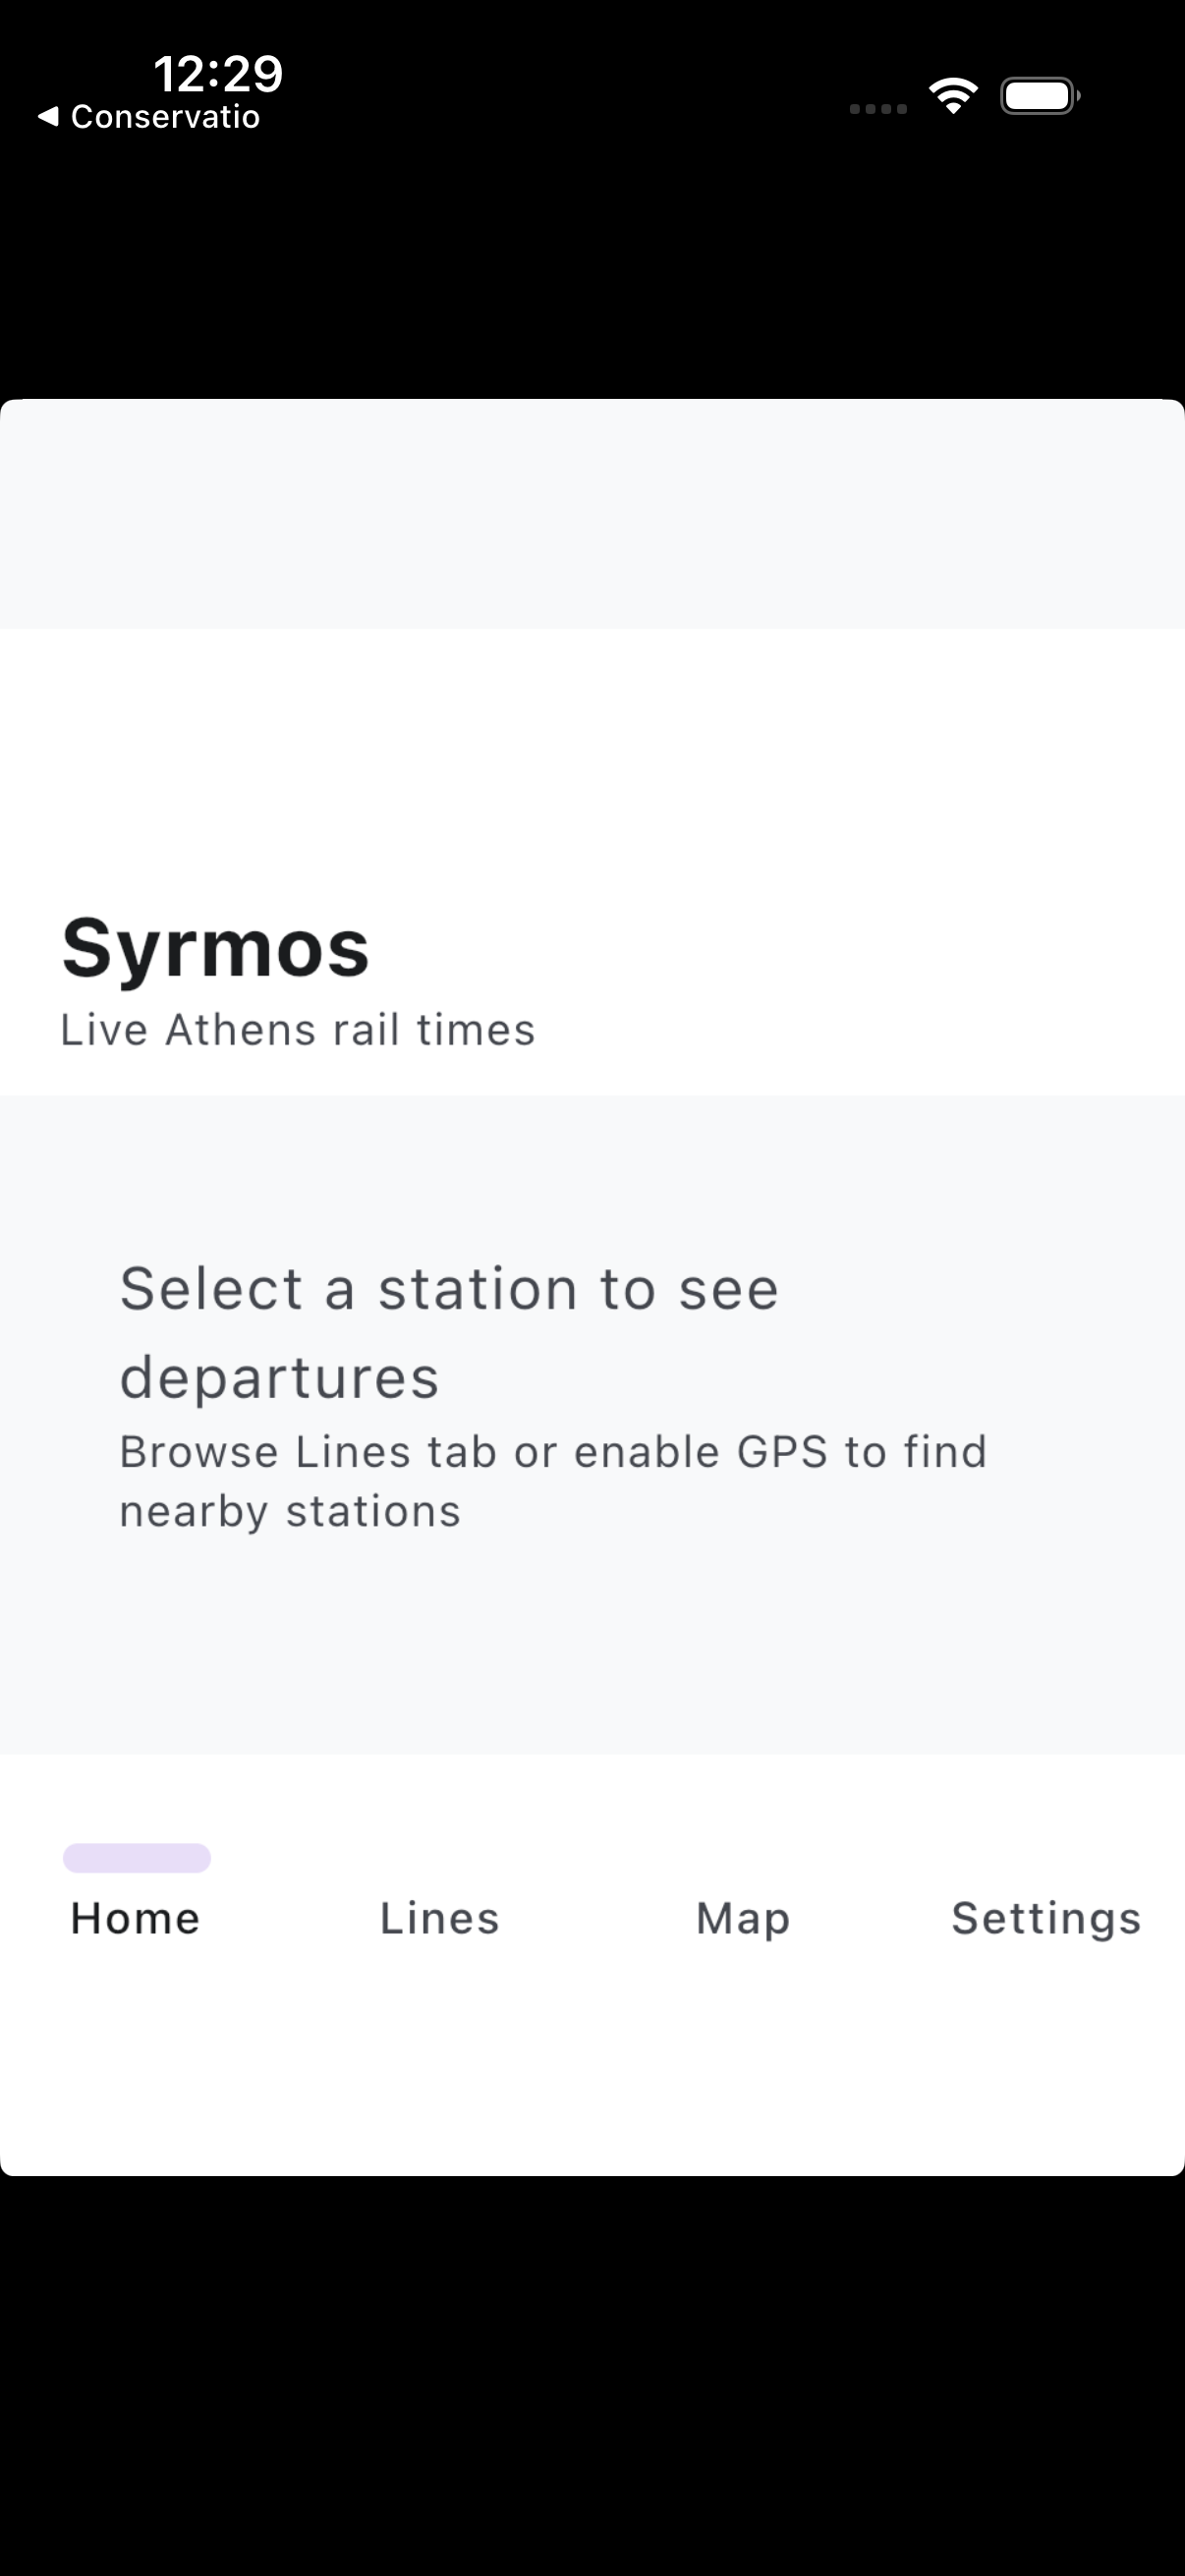
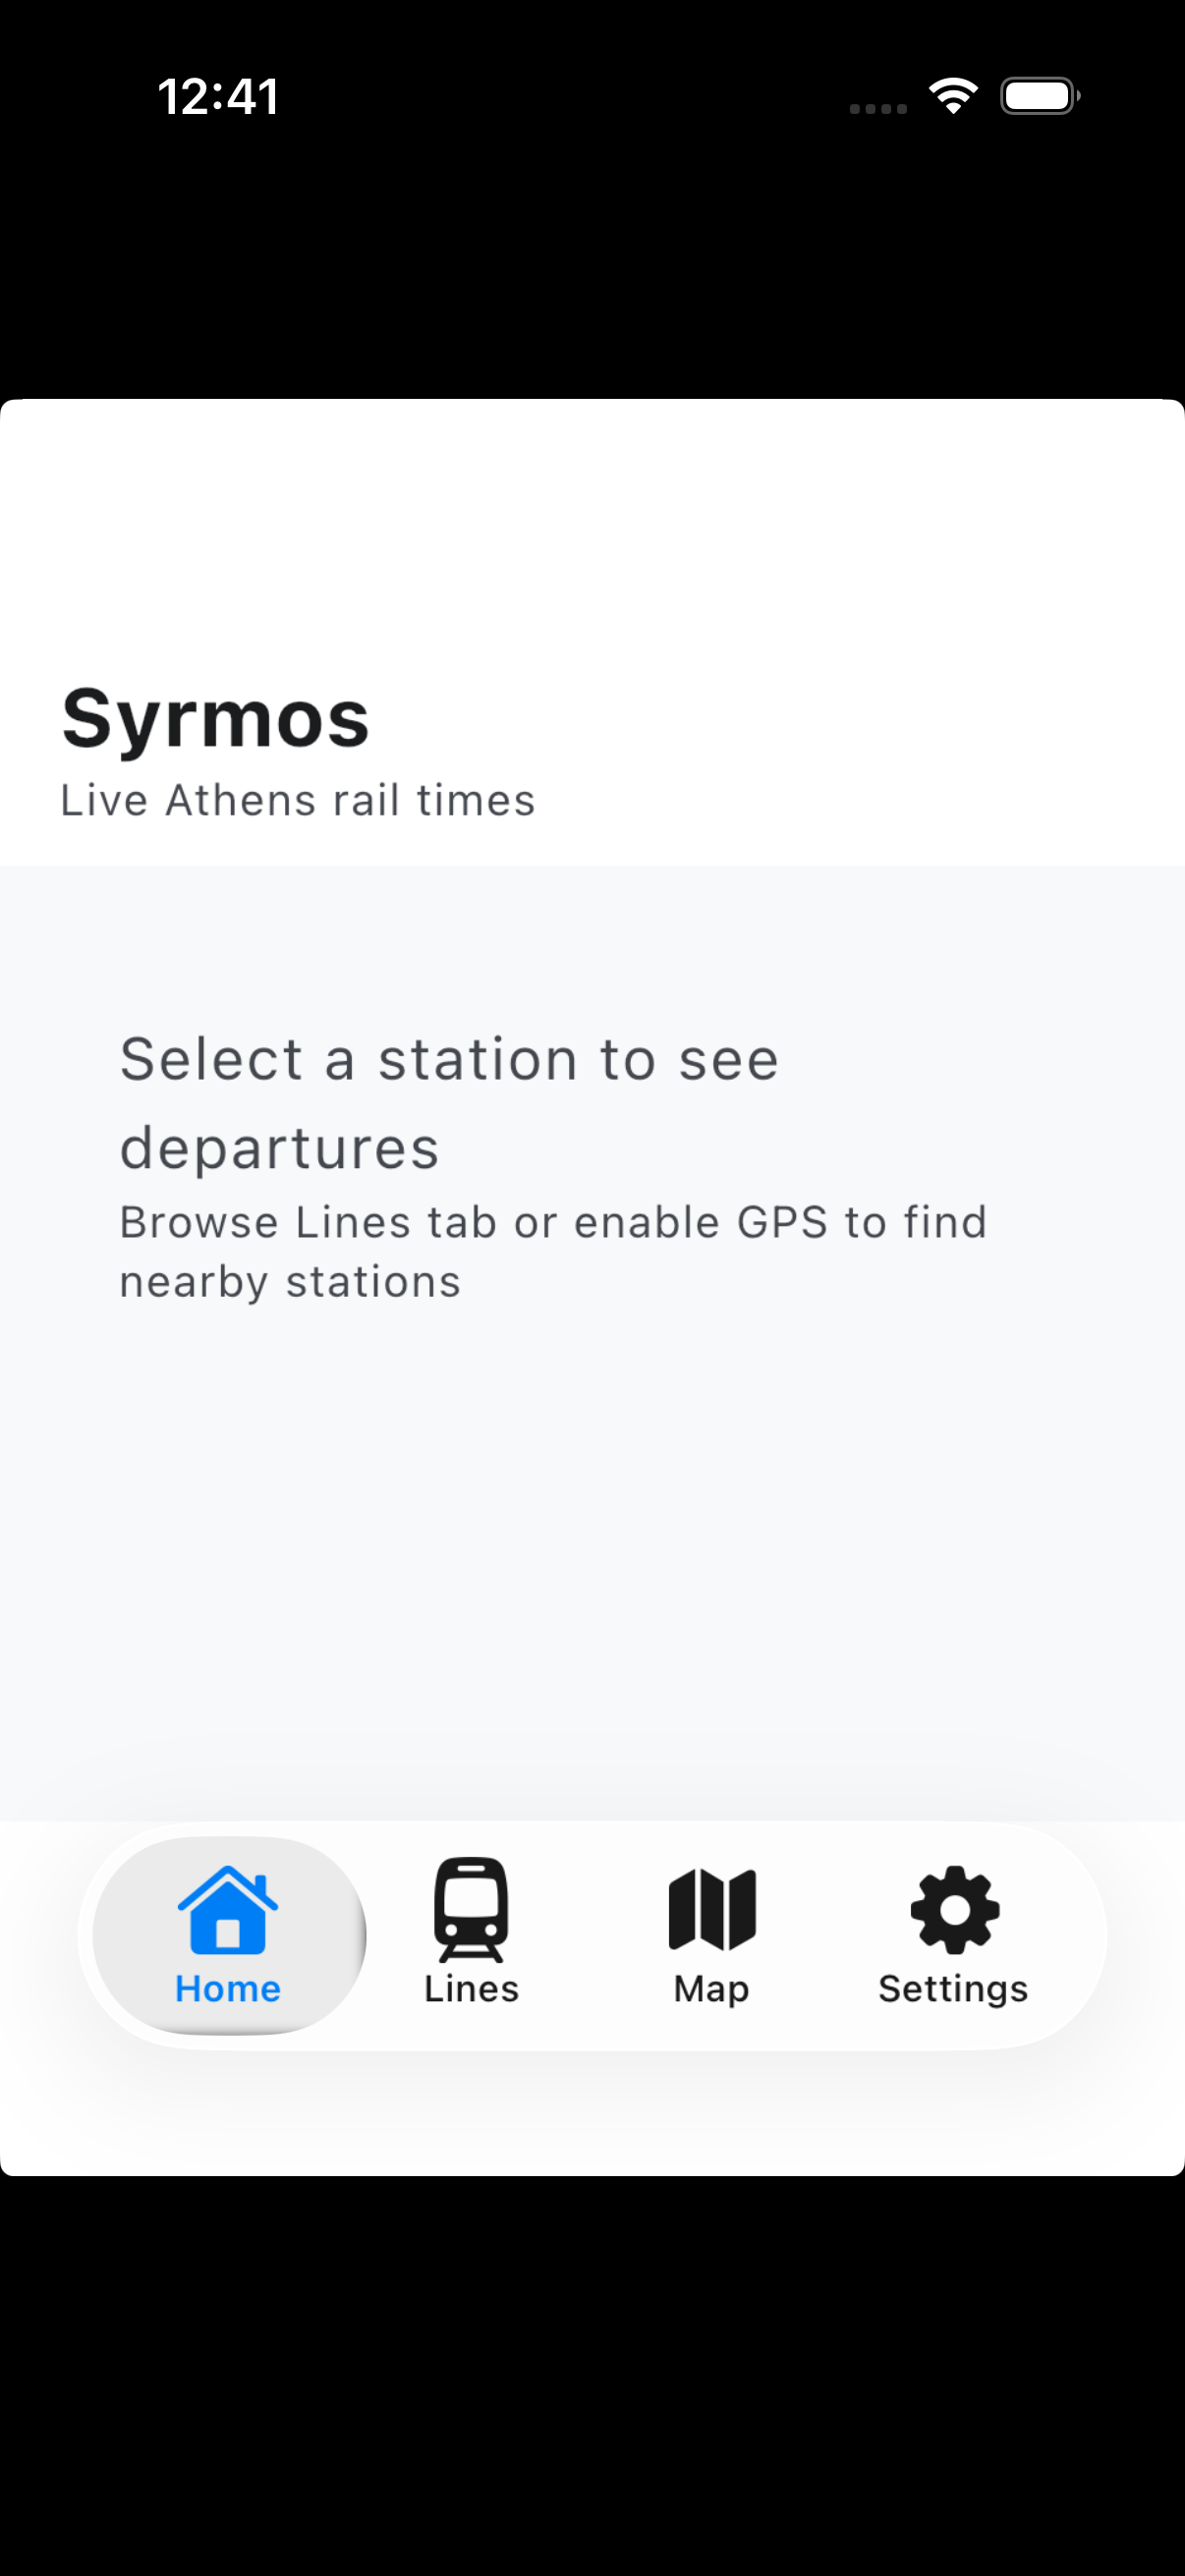
feat(iosApp): native SwiftUI TabView with liquid glass on iOS 26
Replace Compose Multiplatform tab navigator with native SwiftUI
TabView on iOS. Each tab embeds a Compose view controller for
its content, while the tab bar itself uses SwiftUI's native
rendering.

On iOS 26 (iPhone 17) this gives the liquid glass frosted
material tab bar with SF Symbols (house, tram, map, gearshape).
On iOS 18 it renders the standard UIKit tab bar style.

Koin initialization moved to doInitKoin() called from SwiftUI
App.init() before any Compose views are created. Per-tab
view controllers created via makeTabViewController(tab:).

Updated README screenshots to feature iPhone 17 liquid glass
tab bar alongside Android Pixel 8.

diff --git a/iosApp/iosApp/SyrmosApp.swift b/iosApp/iosApp/SyrmosApp.swift
@@ -3,17 +3,60 @@ import composeApp
 
 @main
 struct SyrmosApp: App {
+
+    init() {
+        MainViewControllerKt.doInitKoin()
+    }
+
     var body: some Scene {
         WindowGroup {
-            ComposeView()
-                .ignoresSafeArea(.all)
+            ContentView()
         }
     }
 }
 
-struct ComposeView: UIViewControllerRepresentable {
+struct ContentView: View {
+    @State private var selectedTab: SyrmosTab = .home
+
+    var body: some View {
+        TabView(selection: $selectedTab) {
+            ComposeTabView(tab: "home")
+                .tabItem {
+                    Label("Home", systemImage: "house")
+                }
+                .tag(SyrmosTab.home)
+
+            ComposeTabView(tab: "lines")
+                .tabItem {
+                    Label("Lines", systemImage: "tram")
+                }
+                .tag(SyrmosTab.lines)
+
+            ComposeTabView(tab: "map")
+                .tabItem {
+                    Label("Map", systemImage: "map")
+                }
+                .tag(SyrmosTab.map)
+
+            ComposeTabView(tab: "settings")
+                .tabItem {
+                    Label("Settings", systemImage: "gearshape")
+                }
+                .tag(SyrmosTab.settings)
+        }
+        .tint(.blue)
+    }
+}
+
+enum SyrmosTab {
+    case home, lines, map, settings
+}
+
+struct ComposeTabView: UIViewControllerRepresentable {
+    let tab: String
+
     func makeUIViewController(context: Context) -> UIViewController {
-        MainViewControllerKt.MainViewController()
+        MainViewControllerKt.makeTabViewController(tab: tab)
     }
 
     func updateUIViewController(_ uiViewController: UIViewController, context: Context) {}

diff --git a/composeApp/src/iosMain/kotlin/com/syrmos/app/MainViewController.kt b/composeApp/src/iosMain/kotlin/com/syrmos/app/MainViewController.kt
@@ -1,11 +1,22 @@
 package com.syrmos.app
 
+import androidx.compose.foundation.layout.fillMaxSize
+import androidx.compose.material3.Surface
+import androidx.compose.runtime.Composable
+import androidx.compose.ui.Modifier
 import androidx.compose.ui.window.ComposeUIViewController
 import com.syrmos.app.di.appModules
-import com.syrmos.core.database.DatabaseDriverFactory
 import com.syrmos.core.data.seed.ResourceReader
+import com.syrmos.core.database.DatabaseDriverFactory
+import com.syrmos.core.designsystem.theme.SyrmosTheme
+import com.syrmos.feature.home.HomeScreen
+import com.syrmos.feature.home.HomeViewModel
+import com.syrmos.feature.lines.LinesScreen
+import com.syrmos.feature.lines.LinesViewModel
+import com.syrmos.feature.map.MapScreen
+import com.syrmos.feature.settings.SettingsScreen
+import org.koin.compose.koinInject
 import org.koin.core.context.startKoin
-import org.koin.core.context.stopKoin
 import org.koin.dsl.module
 
 private val iosPlatformModule = module {
@@ -15,12 +26,39 @@ private val iosPlatformModule = module {
 
 private var koinStarted = false
 
-fun MainViewController() = run {
+fun doInitKoin() {
     if (!koinStarted) {
         startKoin {
             modules(iosPlatformModule + appModules)
         }
         koinStarted = true
     }
+}
+
+fun makeTabViewController(tab: String) = ComposeUIViewController {
+    SyrmosTheme {
+        Surface(modifier = Modifier.fillMaxSize()) {
+            when (tab) {
+                "home" -> {
+                    val viewModel = koinInject<HomeViewModel>()
+                    HomeScreen(viewModel = viewModel)
+                }
+                "lines" -> {
+                    val viewModel = koinInject<LinesViewModel>()
+                    LinesScreen(viewModel = viewModel)
+                }
+                "map" -> MapScreen()
+                "settings" -> SettingsScreen()
+                else -> {
+                    val viewModel = koinInject<HomeViewModel>()
+                    HomeScreen(viewModel = viewModel)
+                }
+            }
+        }
+    }
+}
+
+fun MainViewController() = run {
+    doInitKoin()
     ComposeUIViewController { SyrmosApp() }
 }

diff --git a/README.md b/README.md
@@ -7,12 +7,12 @@ A Kotlin Multiplatform transit companion for the Athens metro, tram and suburban
 > *Syrmos (συρμός)* is the Greek word for a train consist, the carriages that form a metro train.
 
 <p align="center">
-  <img src="docs/screenshots/home_light.png" width="180" alt="Home (iOS)" />
+  <img src="docs/screenshots/home_iphone17.png" width="180" alt="Home (iOS 26)" />
   <img src="docs/screenshots/home_android.png" width="180" alt="Home (Android)" />
   <img src="docs/screenshots/map_light.png" width="180" alt="Transit Map" />
   <img src="docs/screenshots/settings_light.png" width="180" alt="Settings" />
 </p>
-<p align="center"><sub>iPhone 14 (iOS 18.6) · Pixel 8 (Android 15) · iPhone 17 (iOS 26.1)</sub></p>
+<p align="center"><sub>iPhone 17 (iOS 26, liquid glass) · Pixel 8 (Android 15) · iPhone 14 (iOS 18.6)</sub></p>
 
 ---
 